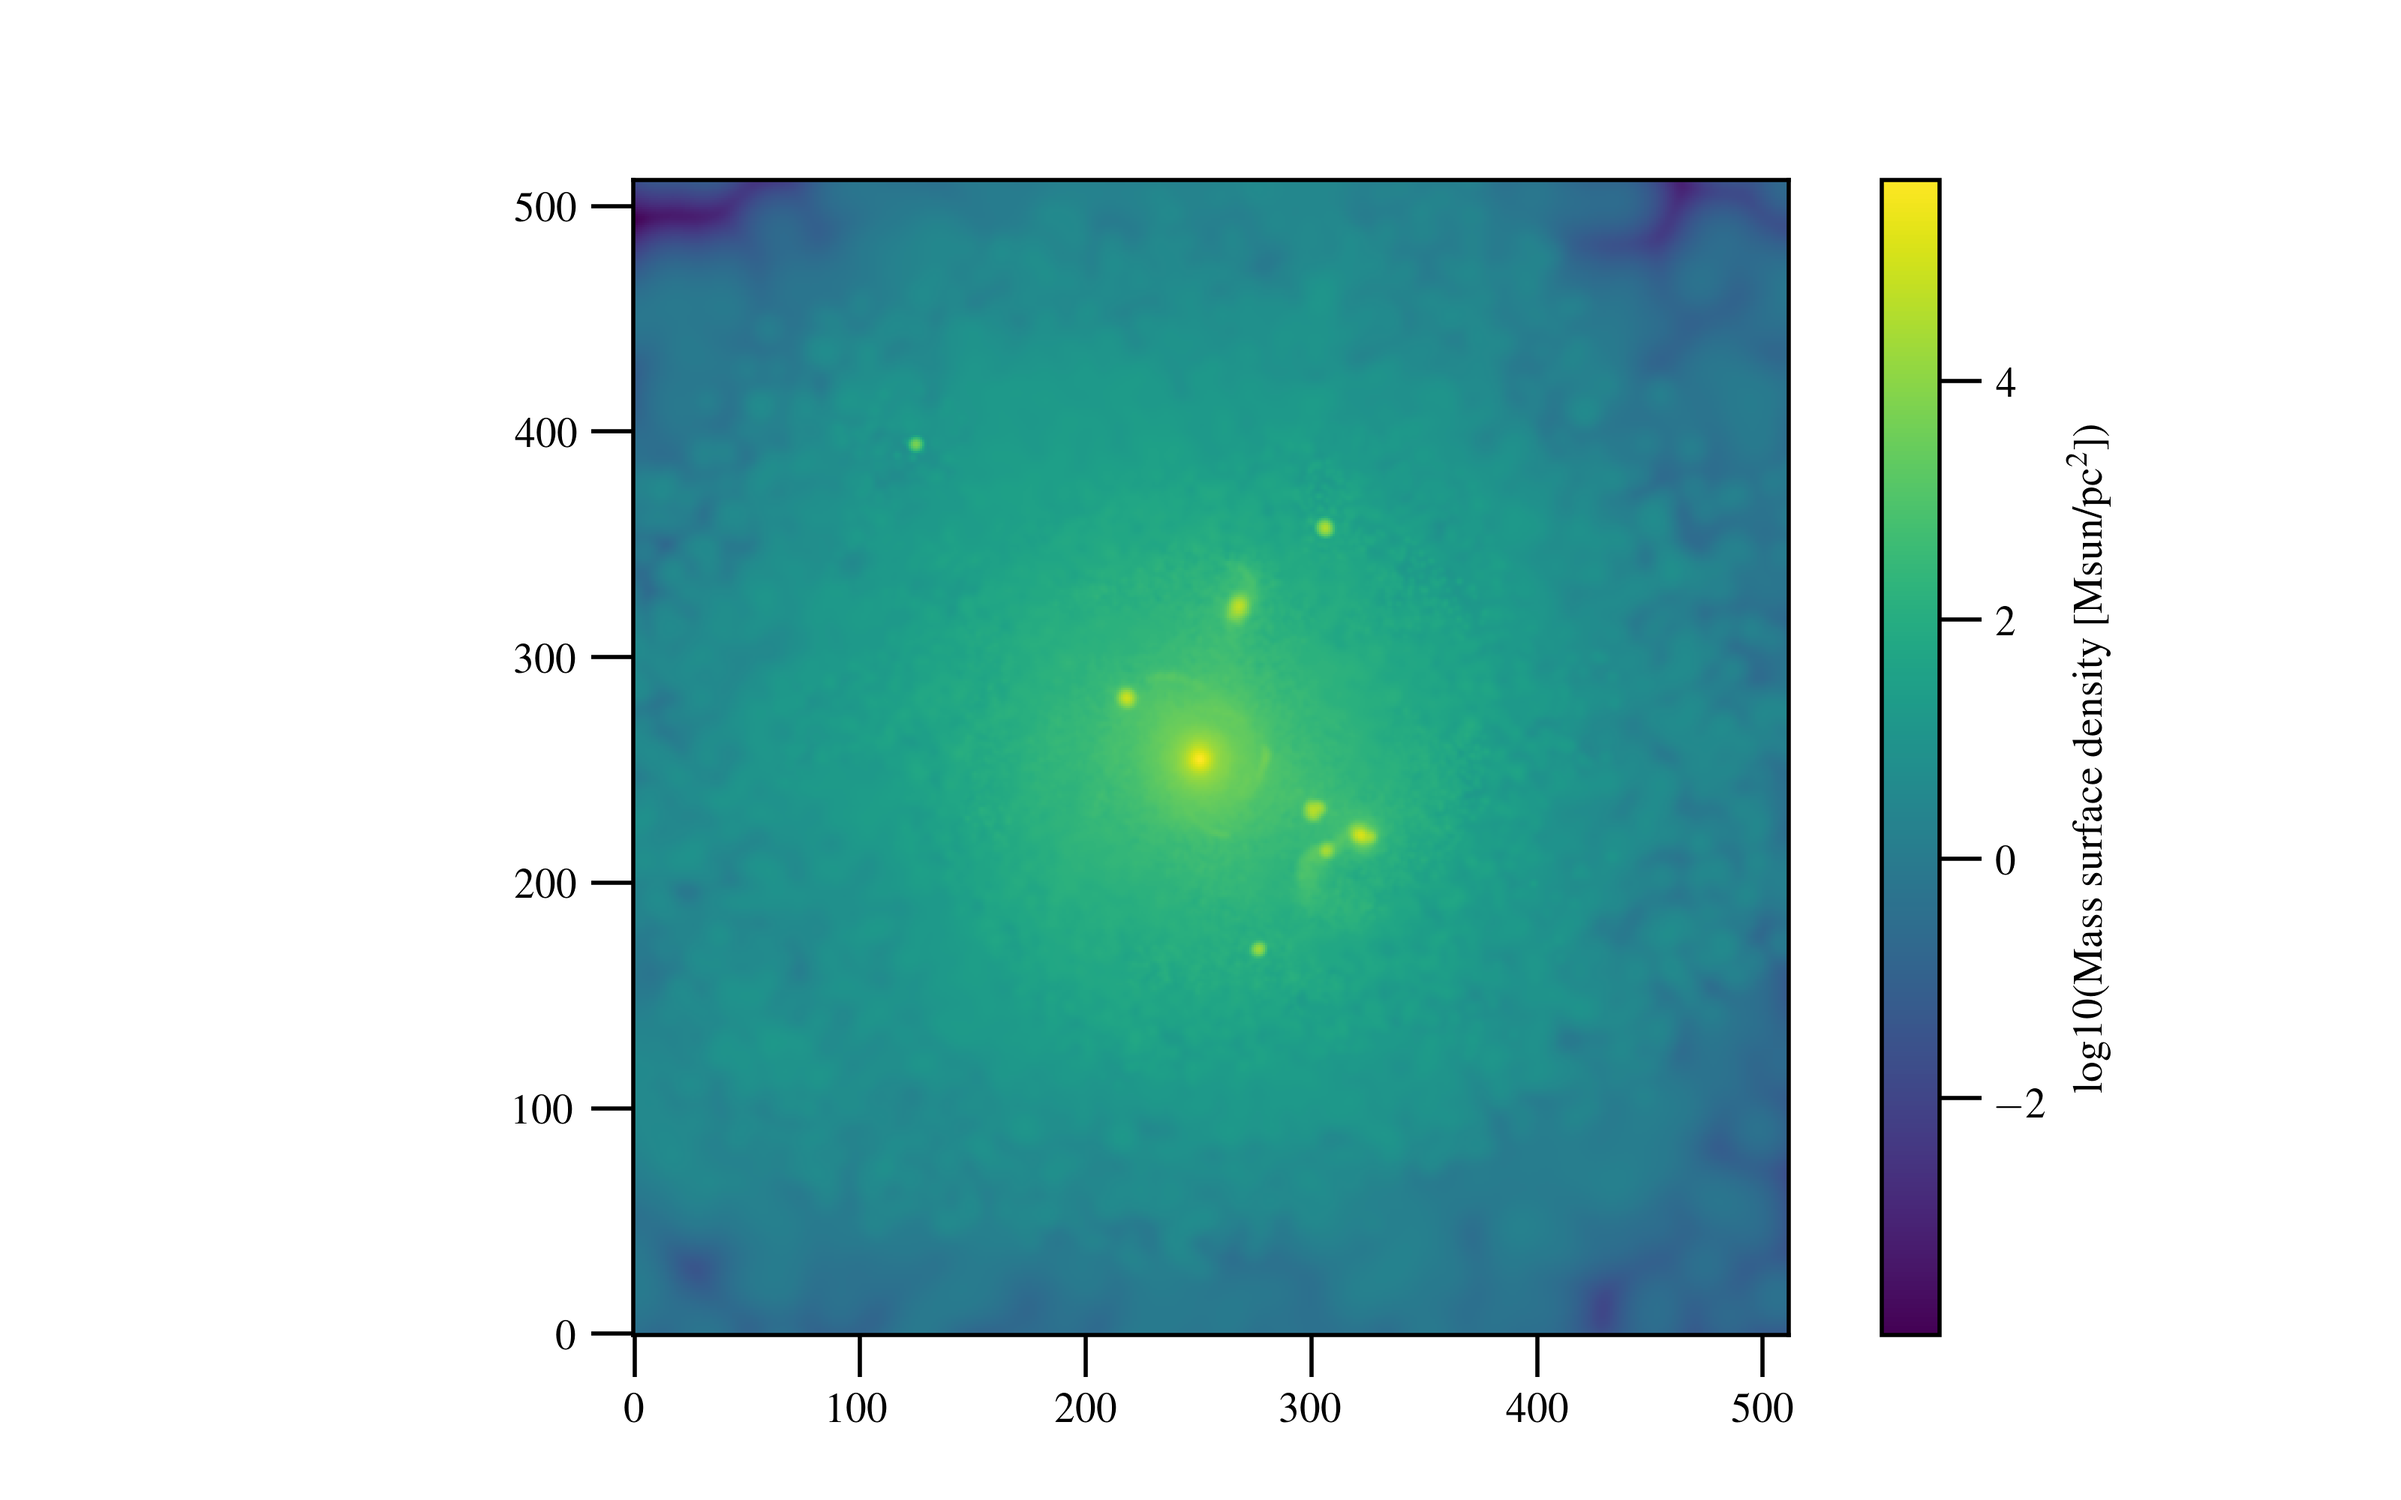
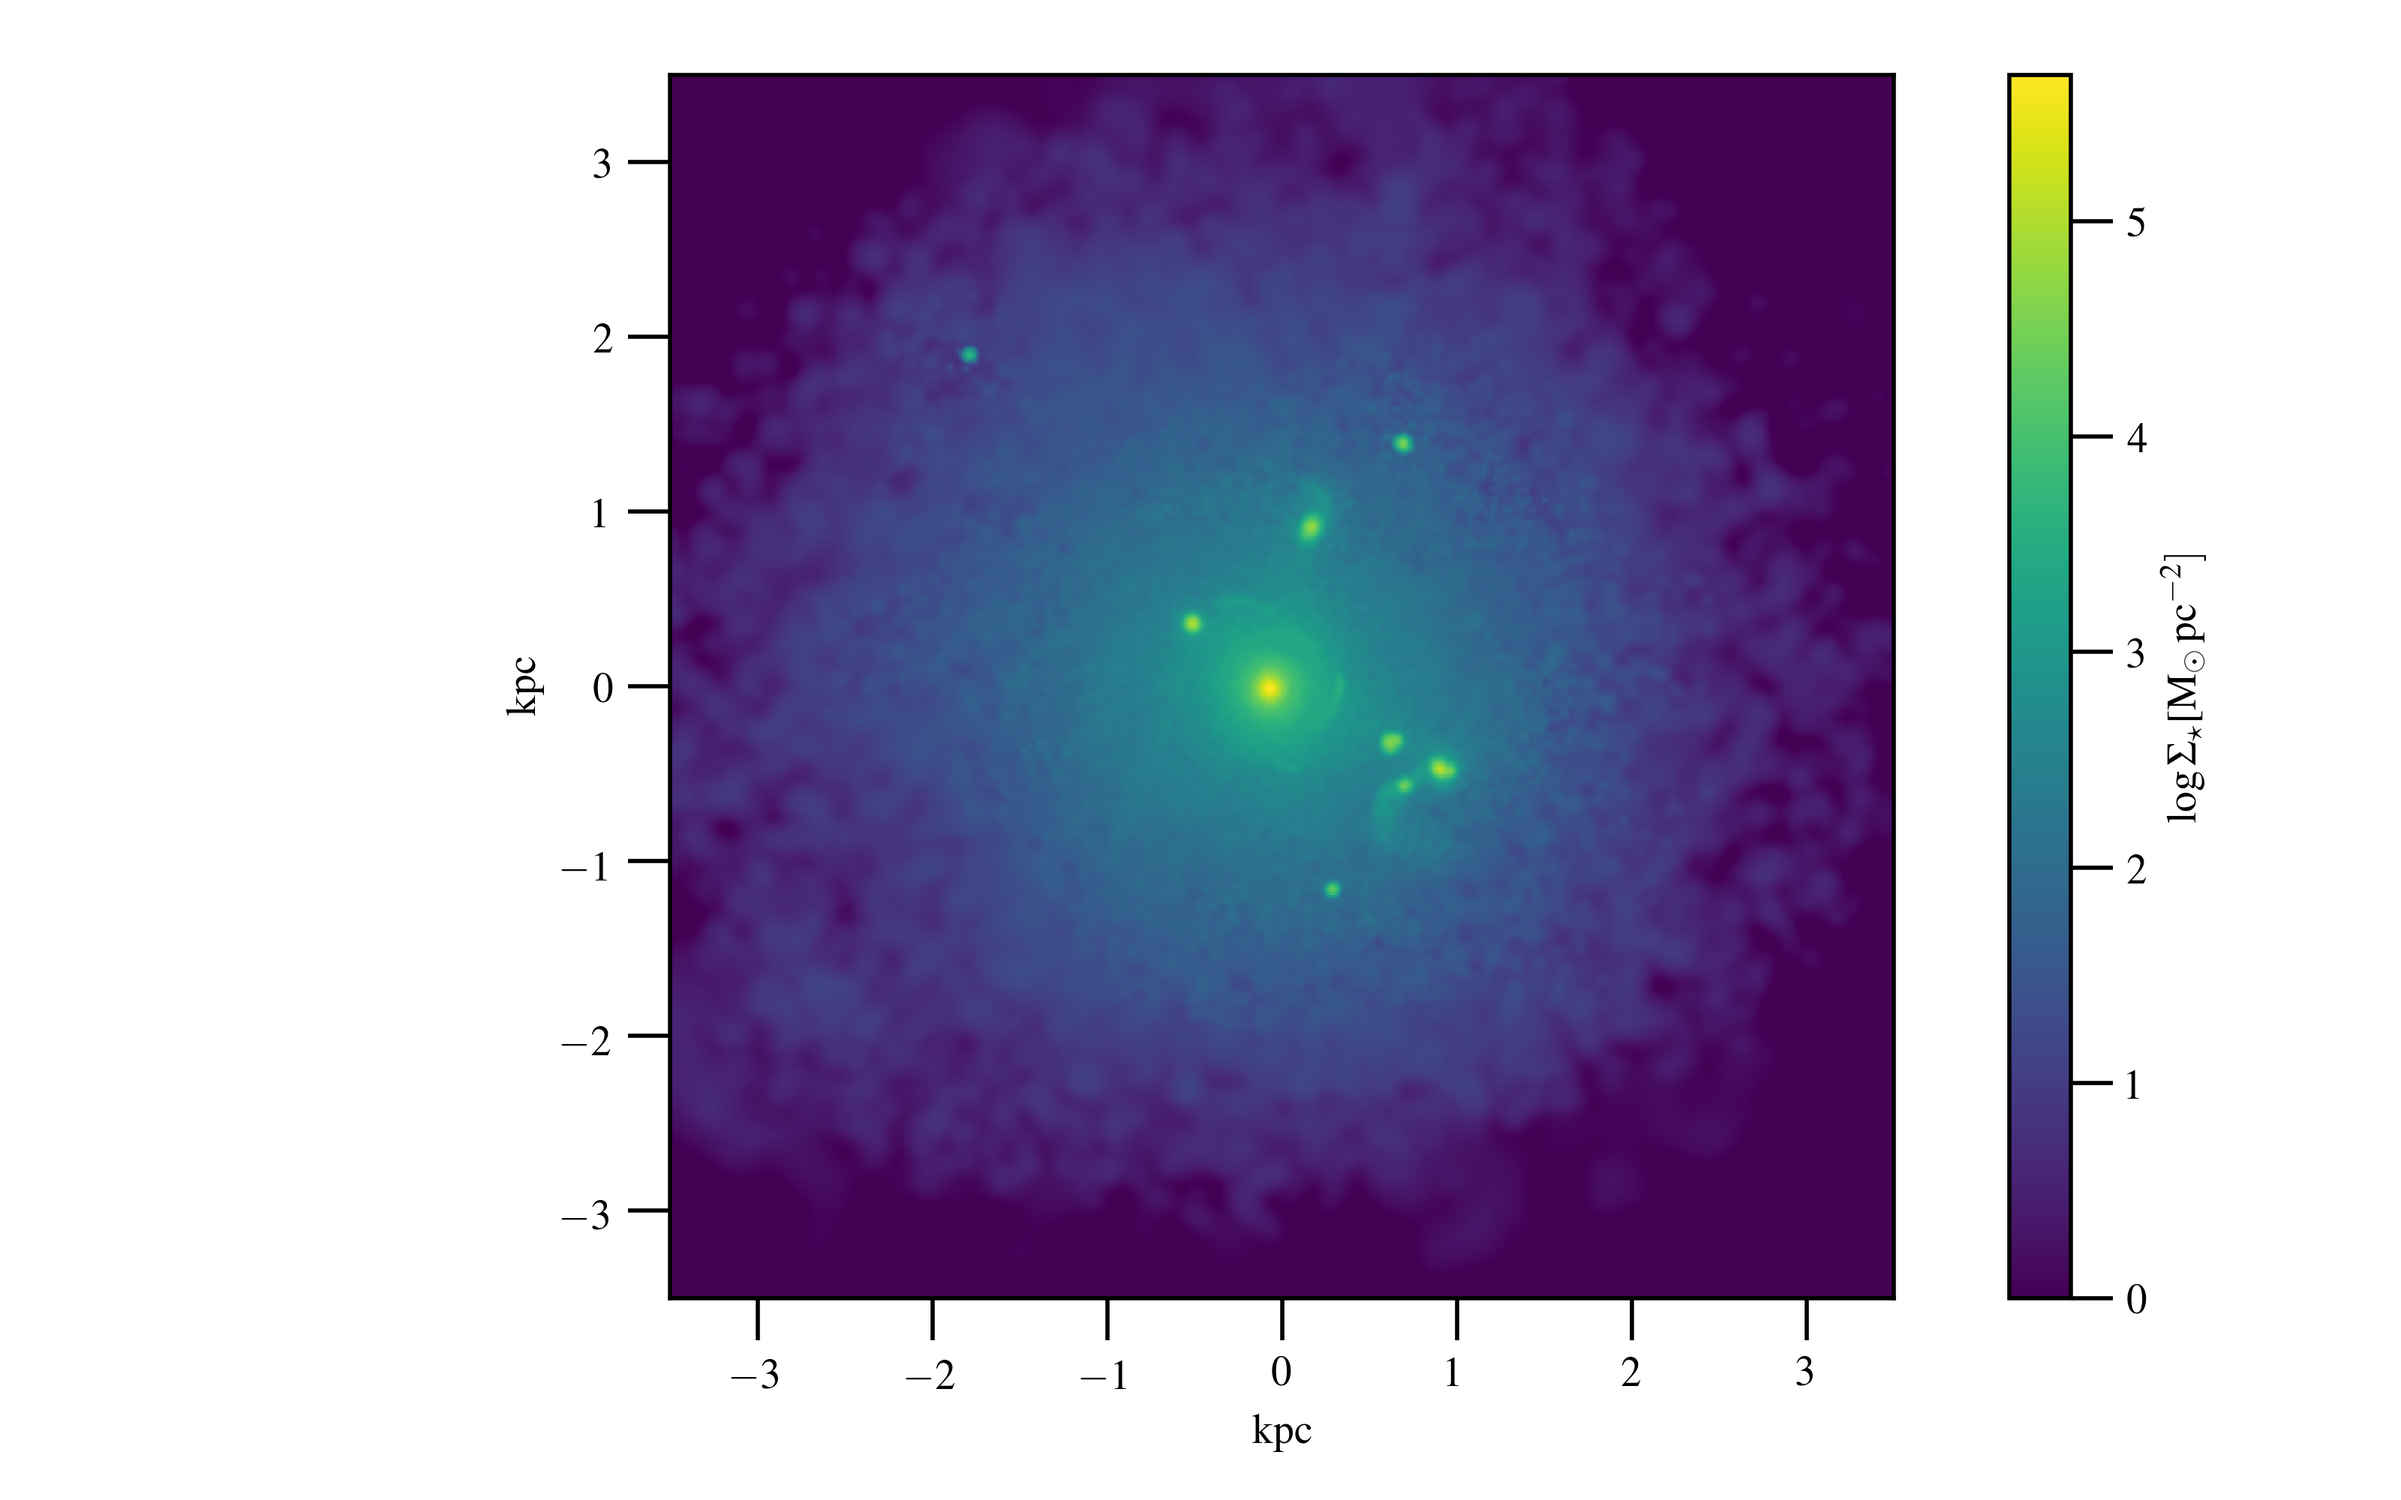
updated plots, prettier plots for presentation

diff --git a/calc_sfr_fromParticles.py b/calc_sfr_fromParticles.py
@@ -21,11 +21,13 @@ from pymses.utils import constants as C
 import numpy as np
 import os
 from pymses.analysis.visualization import *
+from plot_modules.plot_cloud_prop import setup_plot
+
 
 
 if __name__ == '__main__':
 
-
+    setup_plot()
     debug   = False
     verbose = True
     stardir = 'star_particles/'
@@ -57,7 +59,6 @@ if __name__ == '__main__':
     sfrs_MsunPerYr = {}
 
     snapshotsToLoad = range(16, 29)
-    snapshotsToLoad = range(28, 29)
     for ssnum in snapshotsToLoad:
         ro = pymses.RamsesOutput("output", ssnum)
 
@@ -128,17 +129,22 @@ if __name__ == '__main__':
 
 
         mapp = mp.process(scal_func, cam, surf_qty=True)
-        plt.close()
-        plt.figure()
+        plt.close('all')
+        fig = plt.figure()
+        ax  = fig.add_subplot(111)
         #
+        z1,z2 = 0.0, np.log10(np.max(mapp))
+
         size_region_kpc = camera_in['region_size'][0] * ro.info['unit_length'].express(C.kpc)
-        plt.imshow(np.log10(mapp),extent = [-size_region_kpc/2,size_region_kpc/2,-size_region_kpc/2,+size_region_kpc/2]  )
+        bu = ax.imshow(np.log10(mapp),extent = [-size_region_kpc/2,size_region_kpc/2,-size_region_kpc/2,+size_region_kpc/2]
+                       ,vmin = z1, vmax = z2
+                      )
         plt.ylabel("kpc")
         plt.xlabel("kpc")
         #
-        cbar = plt.colorbar()
-        cbar.set_label(r"$\log10(\Sigma_{\star}/ {\rm M}_{\odot}\,{\rm pc}^{-2}])$")
-        cbar.set_clim(-2.0, np.log10(np.max(mapp)))
+        cbar = fig.colorbar(bu)
+        cbar.set_label(r"$\log \Sigma_{\star}$" + r"[M$_{\odot}\,{\rm pc}^{-2}]$")
+        cbar.set_clim(z1,z2)
         plt.tight_layout()
         plt.savefig(stardir + "star_" + str(ssnum) + '.png')
         plt.close()

diff --git a/plot_modules/plot_cloud_prop.py b/plot_modules/plot_cloud_prop.py
@@ -312,6 +312,7 @@ def plot_stuff(xstr, ystr, ls='', markersize=7, marker='*',
         
     if(xstr == "gas sd"):
         ax.set_xscale("log")
+        ax.set_xlim(1.e2, 1.e3)
         ax.set_xlabel(r"$\Sigma_{\rm gas}$ [M$_{\odot}$ pc$^{-2}$]")
 
     if xstr == 'size pc':
